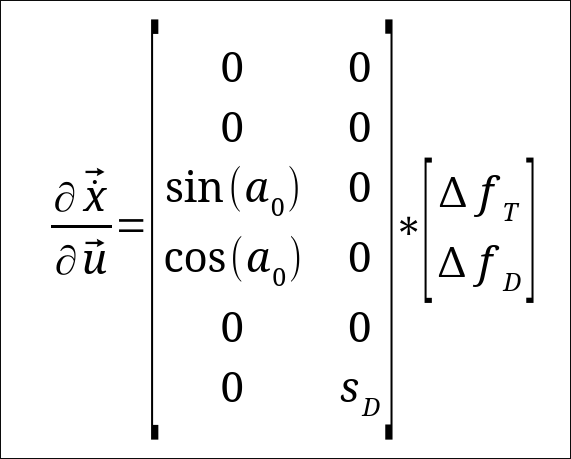
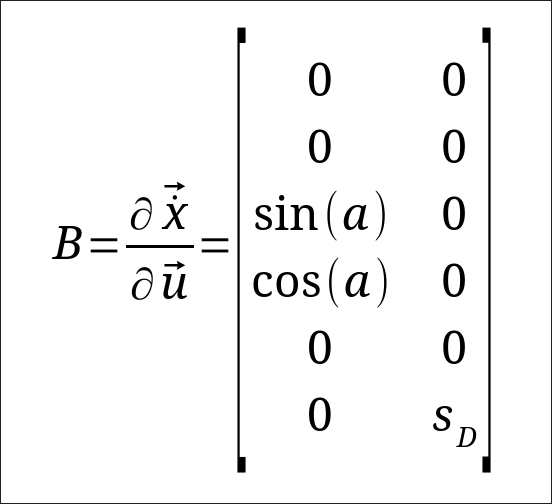
Corrected drone2d math

diff --git a/devlogs/pages/003_drone_simulator_2d_math.html b/devlogs/pages/003_drone_simulator_2d_math.html
@@ -8,6 +8,13 @@
     <body>
         <h2>Drone Simulator 2d Math</h2>
         <time datetime="2026-09-16">Date: 16/09/2026</time>
+        <details>
+            <summary>Updates (Rev 1)</summary>
+            <table>
+                <tr><th>Rev</th><th>Date</th><th>Description</th></tr>
+                <tr><td>1</td><td><time datetime="2026-10-21">21/10/2026</time></td><td>Corrected notation in equations</td></tr>
+            </table>
+        </details>
         <p>This week, I worked on making a drone simulator in JavaScript to test out a simple LQR controller. To keep it simple, this drone is two dimensional.</p>
         <p>To make the controller, I started by drawing out the control system, which basically shows how my state evolves over time and how I control the system. Here, x is my state, y is the output, r is the reference (or target), u is the control input, and e is the error. The A matrix describes how my state affects the dynamics, and B describes how my input affects the dynamics. C and D show how my state and inputs affect the output. Note that by definition, x=&int;x&#775;+x<sub>0</sub>.</p>
         <img src="./../images/003/system_state_formula.png" style="height:20vh">
@@ -19,7 +26,7 @@
         <p>Then, same thing for u, giving us B, except we completely ignore the x&#775; component since they're all constant (i.e. no f<sub>T</sub> or f<sub>D</sub> components).</p>
         <img src="./../images/003/jacobianB.png" style="height:30vh">
         <p>Finally, we replace f<sub>T</sub> in the A matrix so that the drone stays level. By setting it to 9.8/cos(a), we are telling the system that we need to make sure that the vertical component of the thrust is enough to counter gravity. One important issue to notice here is that as our angle deviates from 0, we approach infinite total thrust and 0 authority over vertical acceleration, and the system becomes less controllable (i.e. we cannot calculate a K matrix at 90 degrees). Instead, I will probably start blending the controller with a linear or step controller to avoid going past 75&deg;. The only reason to pass this limit, as far as I can tell, is for freestyle acrobatics (like doing loops), so we don't generally care about this range anyways.</p>
-        <img src="./../images/003/jacobianAgravity.png">
+        <img src="./../images/003/linearized_system.png">
         <p>Now that we have the A and B matrices, its time to talk about how to find K. This is the easiest part of this project, we give it to a solver, which solves the algebraic ricotti equations. It does some magic to convert A and B into K, with some tunable parameters in the Q and R matrices. Q and R are cost matrices, which tell us how expensive a certain parameter is. Q is the cost of an error on x, while R is the cost of using a control u. In this case, I just used I for both, since I want to get the controller working first, tuning can happen later. In particular, applying a higher cost to f<sub>T</sub> can tell the system to use less throttle, which can potentially save battery if we don't need it to approach the destination as quickly.</p>
         <p>I used a simple octave script to generate my k matrix. The plan is for the drone to be 2kg, have 0.2kg*m<sup>2</sup> of inertia, and have 0.5m between the center of mass and the props, so the s<sub>D</sub> factor is 0.2/0.5=2.5. For linear dimensions, I will normalize for acceleration, so we don't have to worry about mass in the controller.</p>
         <iframe src="./../demos/drone2d_0/lqr.m.txt" class="script" data-fname="lqr.m" style="height:70vh;"></iframe>
